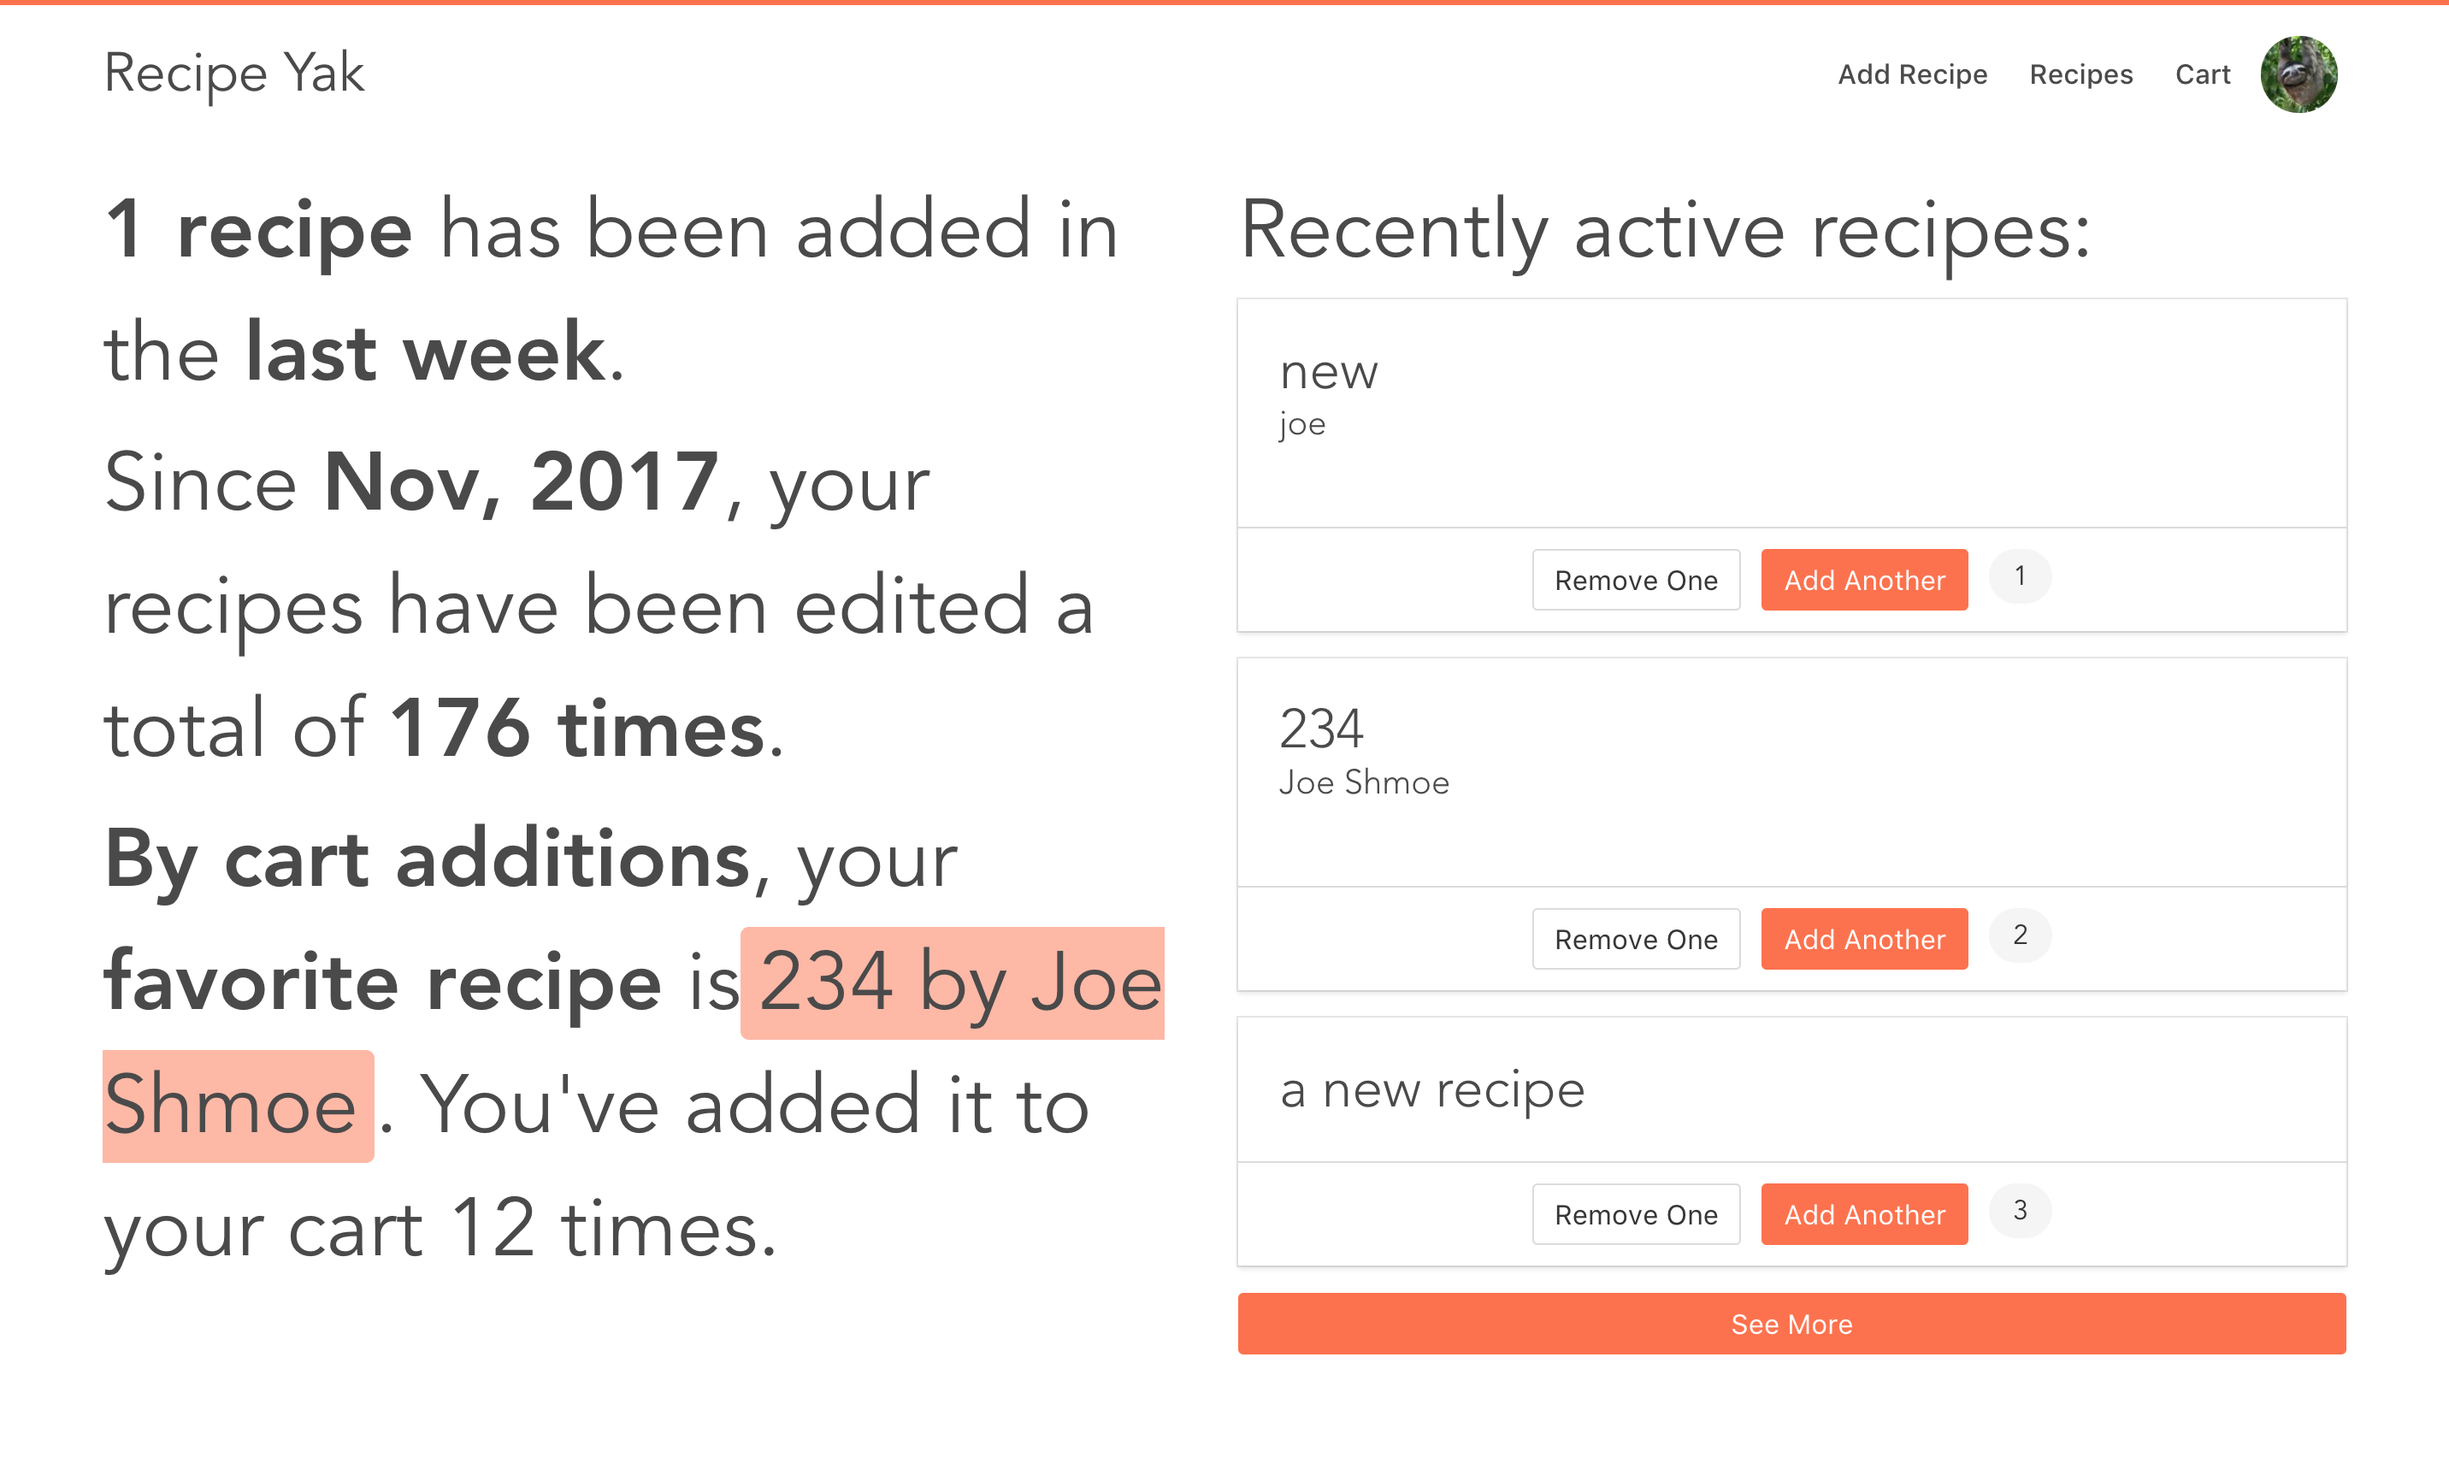
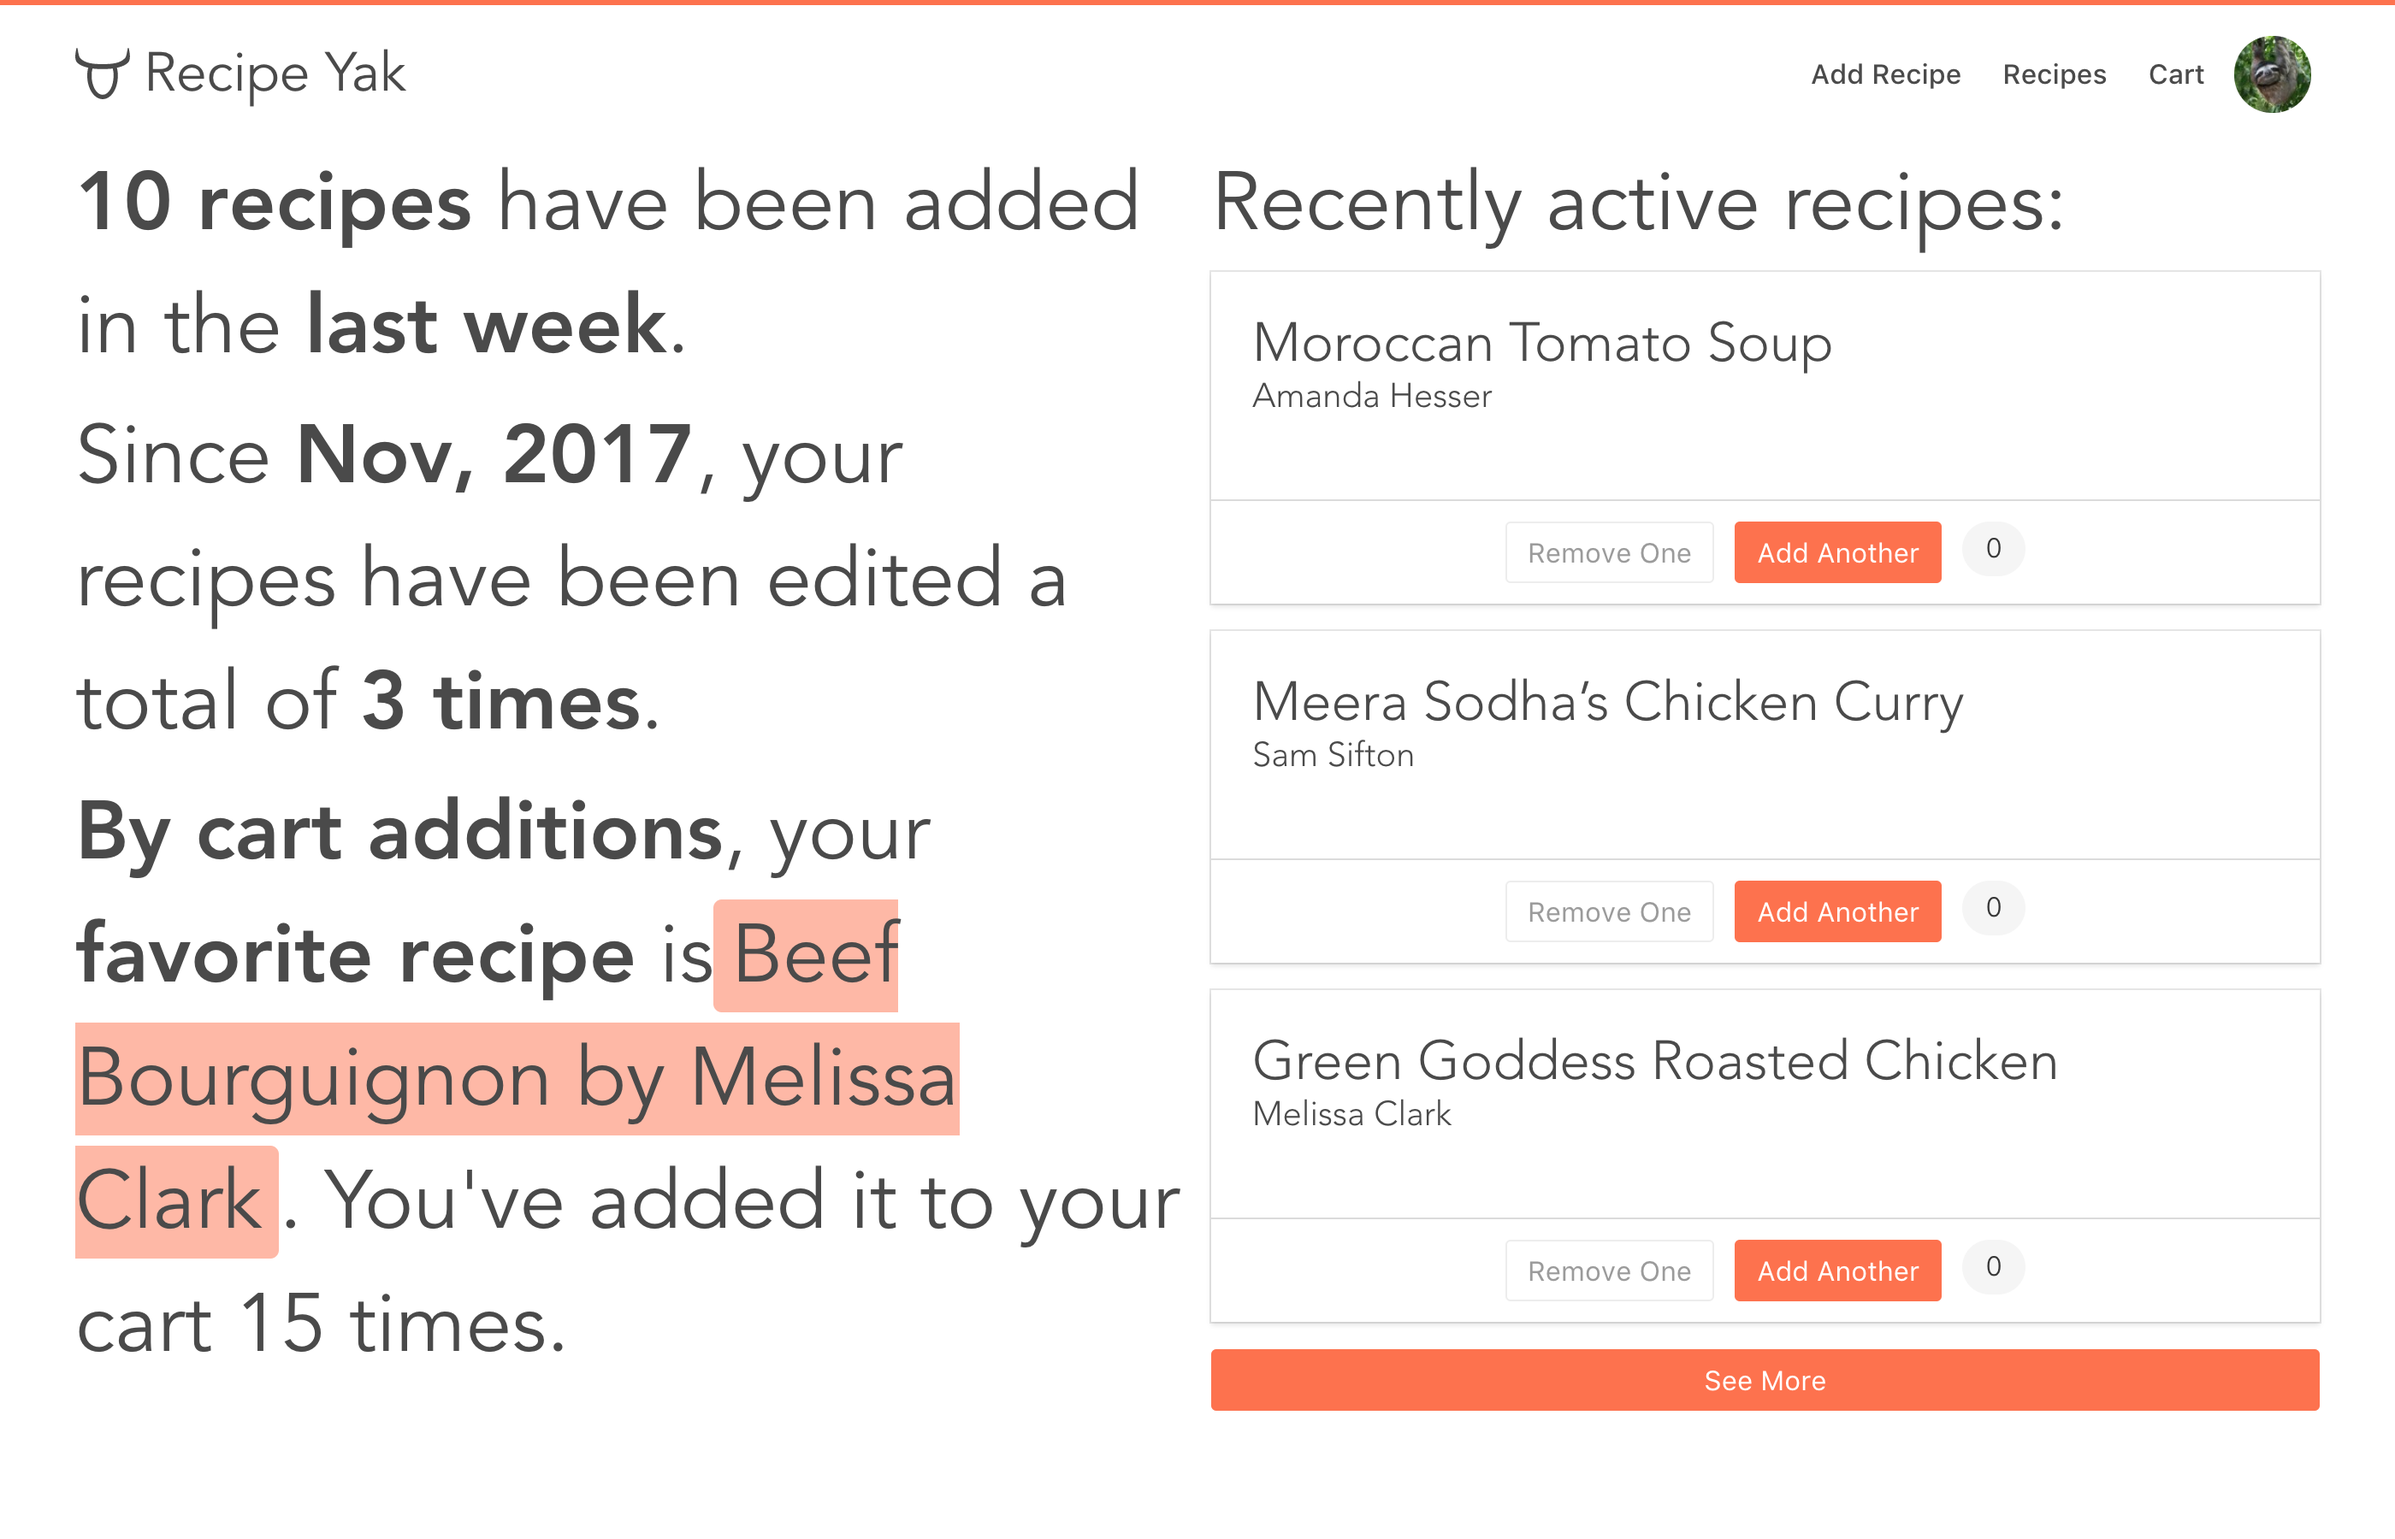
added: color to landingpage

diff --git a/frontend/src/components/LandingPage.jsx b/frontend/src/components/LandingPage.jsx
@@ -5,77 +5,94 @@ import { Link } from 'react-router-dom'
 const isOdd = i => i % 2 !== 0
 
 const LandingPage = () =>
-  <section className="home-grid">
+  <section>
     <Helmet title='Get Started'/>
-    <section className="">
+    <section className="container d-grid grid-gap-1rem pb-4 pr-4 pl-4">
       <h1 className="home-hero-text font-family-title">A place to store, share, and create recipes</h1>
-    </section>
-    <section className="mb-4 d-flex justify-content-center">
-      <Link to='/signup' className='my-button is-primary is-large'>
+
+      <Link to='/signup' className='my-button is-primary is-large justify-self-center'>
         Create Account
       </Link>
     </section>
-    <section>
-      <img className="box-shadow-normal" src="/homepage.png" alt=""/>
+    <section className="pt-4 bg-50-50-primary pr-4 pl-4">
+      <section className="container">
+        <img className="box-shadow-normal" src="/homepage.png" alt=""/>
+      </section>
     </section>
-    <h2 className="font-family-title fs-12 bold">Features</h2>
-    <ul className="d-grid grid-gap-1rem">
-    {
-      [
+
+    <section className="bg-primary color-white pt-4 pb-4 pr-4 pl-4">
+      <section className="container">
+        <h2 className="font-family-title home-subtitle bold">Features</h2>
+        <ul className="d-grid grid-gap-1rem">
         {
-          text: 'Sift through through your entire recipe collection in milliseconds with the enhanced search box.',
-          imgURL: '/search.png'
-        },
-        {
-          text: 'Keep all your recipes in one place with unlimited recipe storage',
-          imgURL: '/list.png'
-        },
-        {
-          text: 'Automatically generate a condensed shopping list by adding recipes to your cart.',
-          imgURL: '/cart.png'
-        },
-        {
-          text: 'Easily double recipes and have the resulting ingredients appear in your shopping list',
-          imgURL: '/cart-doubling.png'
+          [
+            {
+              text: 'Sift through through your entire recipe collection in milliseconds with the enhanced search box.',
+              imgURL: '/search.png'
+            },
+            {
+              text: 'Keep all your recipes in one place with unlimited recipe storage',
+              imgURL: '/list.png'
+            },
+            {
+              text: 'Automatically generate a condensed shopping list by adding recipes to your cart.',
+              imgURL: '/cart.png'
+            },
+            {
+              text: 'Easily double recipes and have the resulting ingredients appear in your shopping list',
+              imgURL: '/cart-doubling.png'
+            }
+          ].map(({ text, imgURL }, i) =>
+            <li className="feature-grid" key={ text }>
+              <p className={ `align-self-center ${isOdd(i) ? 'grid-column-2 grid-row-1' : ''}` }>{ text }</p>
+              <div className="fact-img align-self-center ">
+                <img className="box-shadow-normal " src={ imgURL } alt=""/>
+              </div>
+            </li>
+          )
         }
-      ].map(({ text, imgURL }, i) =>
-        <li className="feature-grid">
-          <p className={ `align-self-center ${isOdd(i) ? 'grid-column-2 grid-row-1' : ''}` }>{ text }</p>
-          <div className="fact-img align-self-center ">
-            <img className="box-shadow-normal " src={ imgURL } alt=""/>
-          </div>
-        </li>
-      )
-    }
-    </ul>
-    <h2 className="font-family-title fs-12 bold">How it works</h2>
-    <ol className="d-grid grid-gap-2rem">
-    {
-      [
+        </ul>
+      </section>
+    </section>
+
+    <section className="pt-4 pr-4 pl-4">
+      <section className="container d-grid">
+        <h2 className="font-family-title home-subtitle bold">How it works</h2>
+        <ol className="d-grid grid-gap-2rem">
         {
-          text: "After logging in, add your recipes to the store via the 'Add Recipe' form.",
-          imgURL: '/add-recipe.png'
-        },
-        {
-          text: 'Search through your recipe list and add recipes to your cart.',
-          imgURL: '/search.png'
-        },
-        {
-          text: 'Double any necessary recipes and print the automatically generated shopping list.',
-          imgURL: '/cart-doubling.png'
+          [
+            {
+              text: <span>After logging in, add your recipes to the store via the <Link className="text-decoration-underline" to="/recipes/add">Add Recipe</Link> form.</span>,
+              imgURL: '/add-recipe.png'
+            },
+            {
+              text: <span>Search through your <Link to="/recipes" className="text-decoration-underline">recipe list</Link> and add recipes to your cart.</span>,
+              imgURL: '/search.png'
+            },
+            {
+              text: <span>Double any necessary recipes and print the automatically generated shopping list.</span>,
+              imgURL: '/cart-doubling.png'
+            }
+          ].map(({ text, imgURL }, i) =>
+            <li className="feature-grid" key={ imgURL }>
+              <p className="align-self-center"><b>{ i + 1 }{ '. ' }</b>{ text }</p>
+              <div className="fact-img">
+                <img className="box-shadow-normal " src={ imgURL } alt=""/>
+              </div>
+            </li>
+          )
         }
-      ].map(({ text, imgURL }, i) =>
-        <li className="feature-grid">
-          <p className="align-self-center"><b>{ i + 1 }{ '. ' }</b>{ text }</p>
-          <div className="fact-img">
-            <img className="box-shadow-normal " src={ imgURL } alt=""/>
-          </div>
-        </li>
-      )
-    }
-    </ol>
-    <footer className="has-text-centered  fw-bold pt-4 fs-4 font-family-title">
-      Est. 2017
+        </ol>
+
+        <Link to='/signup' className='my-button is-primary is-large justify-self-center mt-4 mb-2'>
+          Create Account
+        </Link>
+      </section>
+    </section>
+
+    <footer className="fw-bold pt-4 pb-4 fs-4 font-family-title d-flex space-between container pr-4 pl-4">
+      <span>Recipe Yak</span>
+      <span>Est. 2017</span>
     </footer>
   </section>
 

diff --git a/frontend/src/components/App.jsx b/frontend/src/components/App.jsx
@@ -21,7 +21,7 @@ import PasswordReset from '../containers/PasswordReset.jsx'
 import Settings from '../containers/Settings.jsx'
 import AddRecipe from '../containers/AddRecipe.jsx'
 import Notification from '../containers/Notification.jsx'
-import HomePage from '../components/Base.jsx'
+import { Container, ContainerBase } from '../components/Base.jsx'
 import PasswordChange from '../containers/PasswordChange.jsx'
 
 import 'bulma/css/bulma.css'
@@ -43,21 +43,27 @@ const PrivateRoute = ({ component: Component, ...rest }) => (
 const Base = () => (
   <div>
     <ConnectedRouter history={ history }>
-      <HomePage>
+      <ContainerBase>
         <Switch>
-          <Route exact path="/login" component={ Login }/>
-          <Route exact path="/signup" component={ Signup }/>
-          <Route exact path="/password-reset" component={ PasswordReset }/>
+          { /* since the landing page doesn't use a signal container, we have
+            to move it outside of the <Container/>  */ }
           <Route exact path="/" component={ Home }/>
-          <PrivateRoute exact path="/recipes/add" component={ AddRecipe }/>
-          <PrivateRoute exact path="/recipes/" component={ RecipeList }/>
-          <PrivateRoute exact path="/cart" component={ Cart }/>
-          <PrivateRoute exact path="/recipes/:id(\d+)(.*)" component={ Recipe }/>
-          <PrivateRoute exact path="/settings" component={ Settings }/>
-          <PrivateRoute exact path="/password" component={ PasswordChange }/>
-          <Route component={ NoMatch }/>
+          <Container>
+            <Switch>
+              <Route exact path="/login" component={ Login }/>
+              <Route exact path="/signup" component={ Signup }/>
+              <Route exact path="/password-reset" component={ PasswordReset }/>
+              <PrivateRoute exact path="/recipes/add" component={ AddRecipe }/>
+              <PrivateRoute exact path="/recipes/" component={ RecipeList }/>
+              <PrivateRoute exact path="/cart" component={ Cart }/>
+              <PrivateRoute exact path="/recipes/:id(\d+)(.*)" component={ Recipe }/>
+              <PrivateRoute exact path="/settings" component={ Settings }/>
+              <PrivateRoute exact path="/password" component={ PasswordChange }/>
+              <Route component={ NoMatch }/>
+            </Switch>
+          </Container>
         </Switch>
-      </HomePage>
+      </ContainerBase>
     </ConnectedRouter>
     <Notification/>
   </div>

diff --git a/frontend/src/components/UserHome.jsx b/frontend/src/components/UserHome.jsx
@@ -127,20 +127,23 @@ const UserHome = ({
   removeFromCart,
   errorRecipes
 }) =>
-  <div className="font-family-title home-page-grid">
+  <div className="container pr-4 pl-4">
     <Helmet title='Home'/>
-    <UserStatistics
-      stats={ userStats }
-      loading={ loadingUserStats }
-    />
-    <RecentRecipes
-      loading={ loadingRecipes }
-      error={ errorRecipes }
-      recipes={ recipes }
-      cart={ cart }
-      removeFromCart={ removeFromCart }
-      addToCart={ addToCart }
-    />
+
+    <section className="home-page-grid font-family-title">
+      <UserStatistics
+        stats={ userStats }
+        loading={ loadingUserStats }
+      />
+      <RecentRecipes
+        loading={ loadingRecipes }
+        error={ errorRecipes }
+        recipes={ recipes }
+        cart={ cart }
+        removeFromCart={ removeFromCart }
+        addToCart={ addToCart }
+      />
+    </section>
   </div>
 
 class UserHomeFetch extends React.Component {

diff --git a/frontend/src/components/Base.jsx b/frontend/src/components/Base.jsx
@@ -3,17 +3,19 @@ import { Helmet } from 'react-helmet'
 
 import Navbar from '../containers/Nav.jsx'
 
-const Base = ({ children }) => (
-  <div className="container pl-4 pr-4">
+export const ContainerBase = ({ children }) =>
+  <div>
     <Helmet
       defaultTitle='Recipe Yak'
       titleTemplate='%s | Recipe Yak'
     />
-    <Navbar />
-    <div className="pb-4 pt-0">
-      { children }
-    </div>
+    <Navbar className="container pl-4 pr-4" />
+    { children }
   </div>
-)
 
-export default Base
+export const Container = ({ children }) =>
+  <div className="pb-4 pt-0 container pl-4 pr-4">
+    { children }
+  </div>
+
+export default Container

diff --git a/frontend/src/components/Nav.jsx b/frontend/src/components/Nav.jsx
@@ -34,7 +34,8 @@ class Navbar extends React.Component {
       loggedIn = true,
       logout,
       email,
-      loggingOut
+      loggingOut,
+      className = ''
     } = this.props
 
     const buttons = loggedIn ? (
@@ -91,7 +92,7 @@ class Navbar extends React.Component {
     )
 
     return (
-      <nav className="nav flex-wrap pt-2 pb-2">
+      <nav className={ `nav flex-wrap pt-2 pb-2 ${className}` }>
         <Link to="/" className="better-nav-item pl-0 pr-0 fs-2rem fw-normal font-family-title">
           <Logo/>
           <span>Recipe Yak</span>

diff --git a/frontend/src/components/scss/home.scss b/frontend/src/components/scss/home.scss
@@ -1,12 +1,5 @@
 @import './variables.scss';
 
-@media (min-width: 841px) {
-  .home-grid {
-    display: grid;
-    grid-gap: 1rem;
-  }
-}
-
 @media (max-width: 841px) {
   .home-hero-text {
     text-align: center;
@@ -18,8 +11,17 @@
   }
 }
 
+.home-subtitle {
+  font-size: 3rem;
+
+  @media (min-width: 920px) {
+    font-size: 4.5rem;
+    text-align: left;
+  }
+}
+
 .home-hero-text {
-  font-size: 3.5rem;
+  font-size: 3rem;
 
   @media (min-width: 630px) {
     font-size: 4rem;

diff --git a/frontend/src/components/scss/helpers.scss b/frontend/src/components/scss/helpers.scss
@@ -93,6 +93,7 @@
   justify-self: right;
 }
 
+.space-between,
 .justify-space-between,
 .flex-space-between {
   justify-content: space-between;
@@ -266,4 +267,20 @@
   & > * {
     stroke: lighten($text-color, 20%);
   }
+}
+
+.text-decoration-underline {
+  text-decoration: underline;
+}
+
+.bg-primary {
+  background-color: $primary-color;
+}
+
+.color-white {
+  color: white;
+}
+
+.bg-50-50-primary {
+  background: linear-gradient(to bottom, white 50%, $primary-color 50%);
 }
